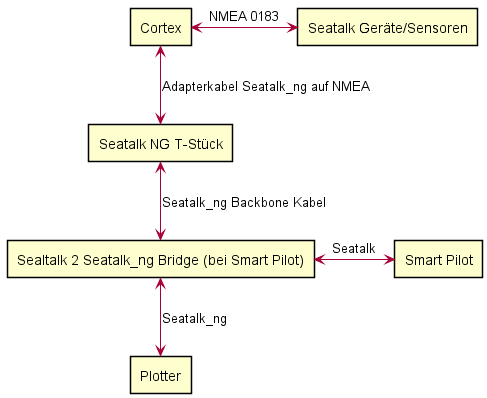
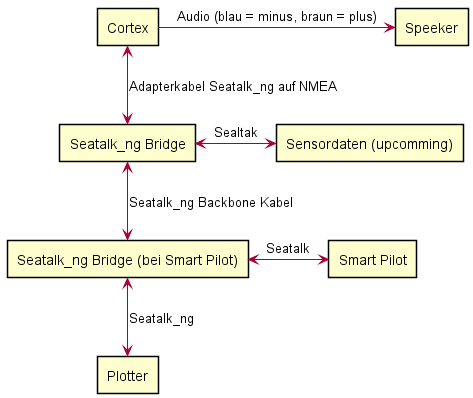
updateed cortex data flow

diff --git a/README.md b/README.md
@@ -63,9 +63,9 @@
 ## TODOs
 - Kabel an Smart Pilot sicher?
 - Dokumentation
-
-## TODOs 18. - 20.
-- Spannung Konverterkit mit 5A sichern
+- Antenne direkt an Funktgerät anschließen
+- Sensordaten auf Bridge bei Cortex legen
+- Daten zur Seltalkbridge in Skippertisch mit Klemmen überarbeiten, sodass nur 1 Input
 
 
 ### Einkaufsliste svb
@@ -97,10 +97,6 @@
 [sensordata]: datenfluss/sensordata.png "Sensordatenfluss"
 ![sensordata]
 
-### Cortex
-[cortex]: datenfluss/cortex.png "Cortex"
-![cortex]
-
-### Cortex Netzwerk (upcomming)
+### Cortex Netzwerk
 [cortex_network]: datenfluss/cortex_network.png "Cortex Netzwerk"
 ![cortex_network]
